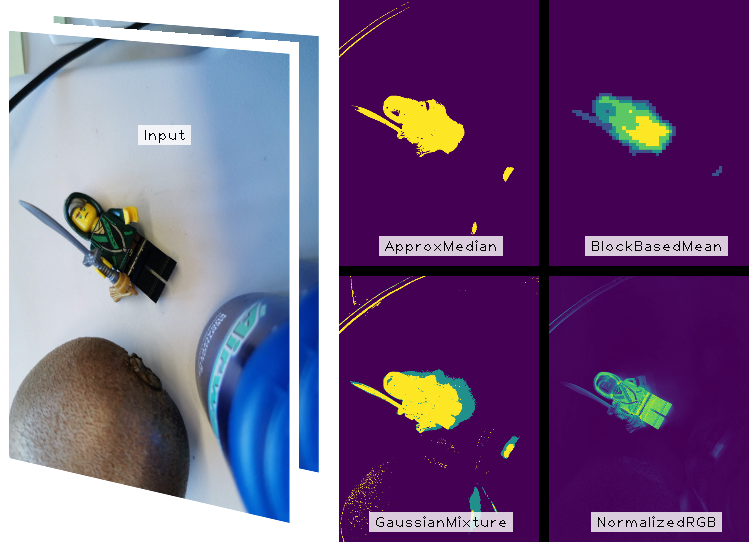
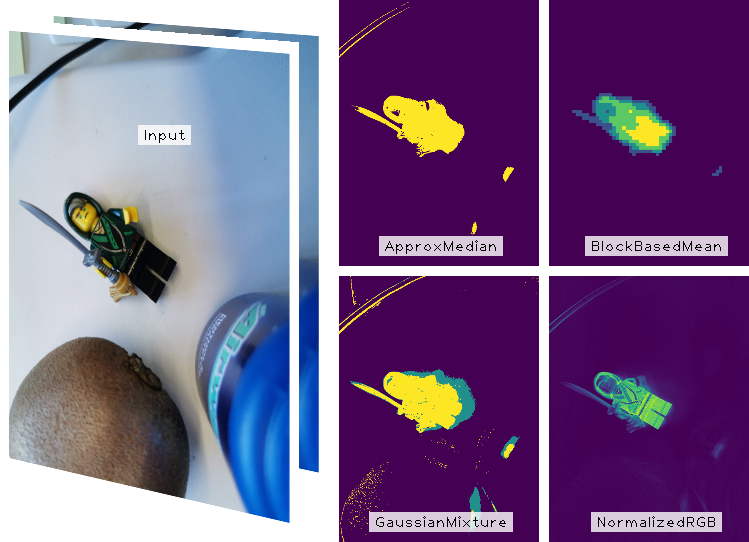
update visuals

Changed region(s): [[0.4606, 0.0, 1.0, 1.0]]

diff --git a/examples/python3/bgm_demo.py b/examples/python3/bgm_demo.py
@@ -4,6 +4,7 @@
 
 import os
 import sys
+import numpy as np
 from vito import pyutils
 # Add path to the vcp package
 sys.path.append(os.path.join(os.path.dirname(os.path.abspath(__file__)), '..', '..', 'gen'))
@@ -74,6 +75,8 @@ def demo(pseudocolor=True, inspect=False):
             iminspect.show(mask)
 
     padding = 10
+    # Add alpha channel to render the README visualization nicely for web display
+    fg_masks[0] = np.dstack((fg_masks[0], 255 * np.ones(fg_masks[0].shape[:2], dtype=np.uint8)))
     collage = imvis.make_collage(fg_masks,
         padding=padding,
         fixed_size_per_image=(200, 266),
